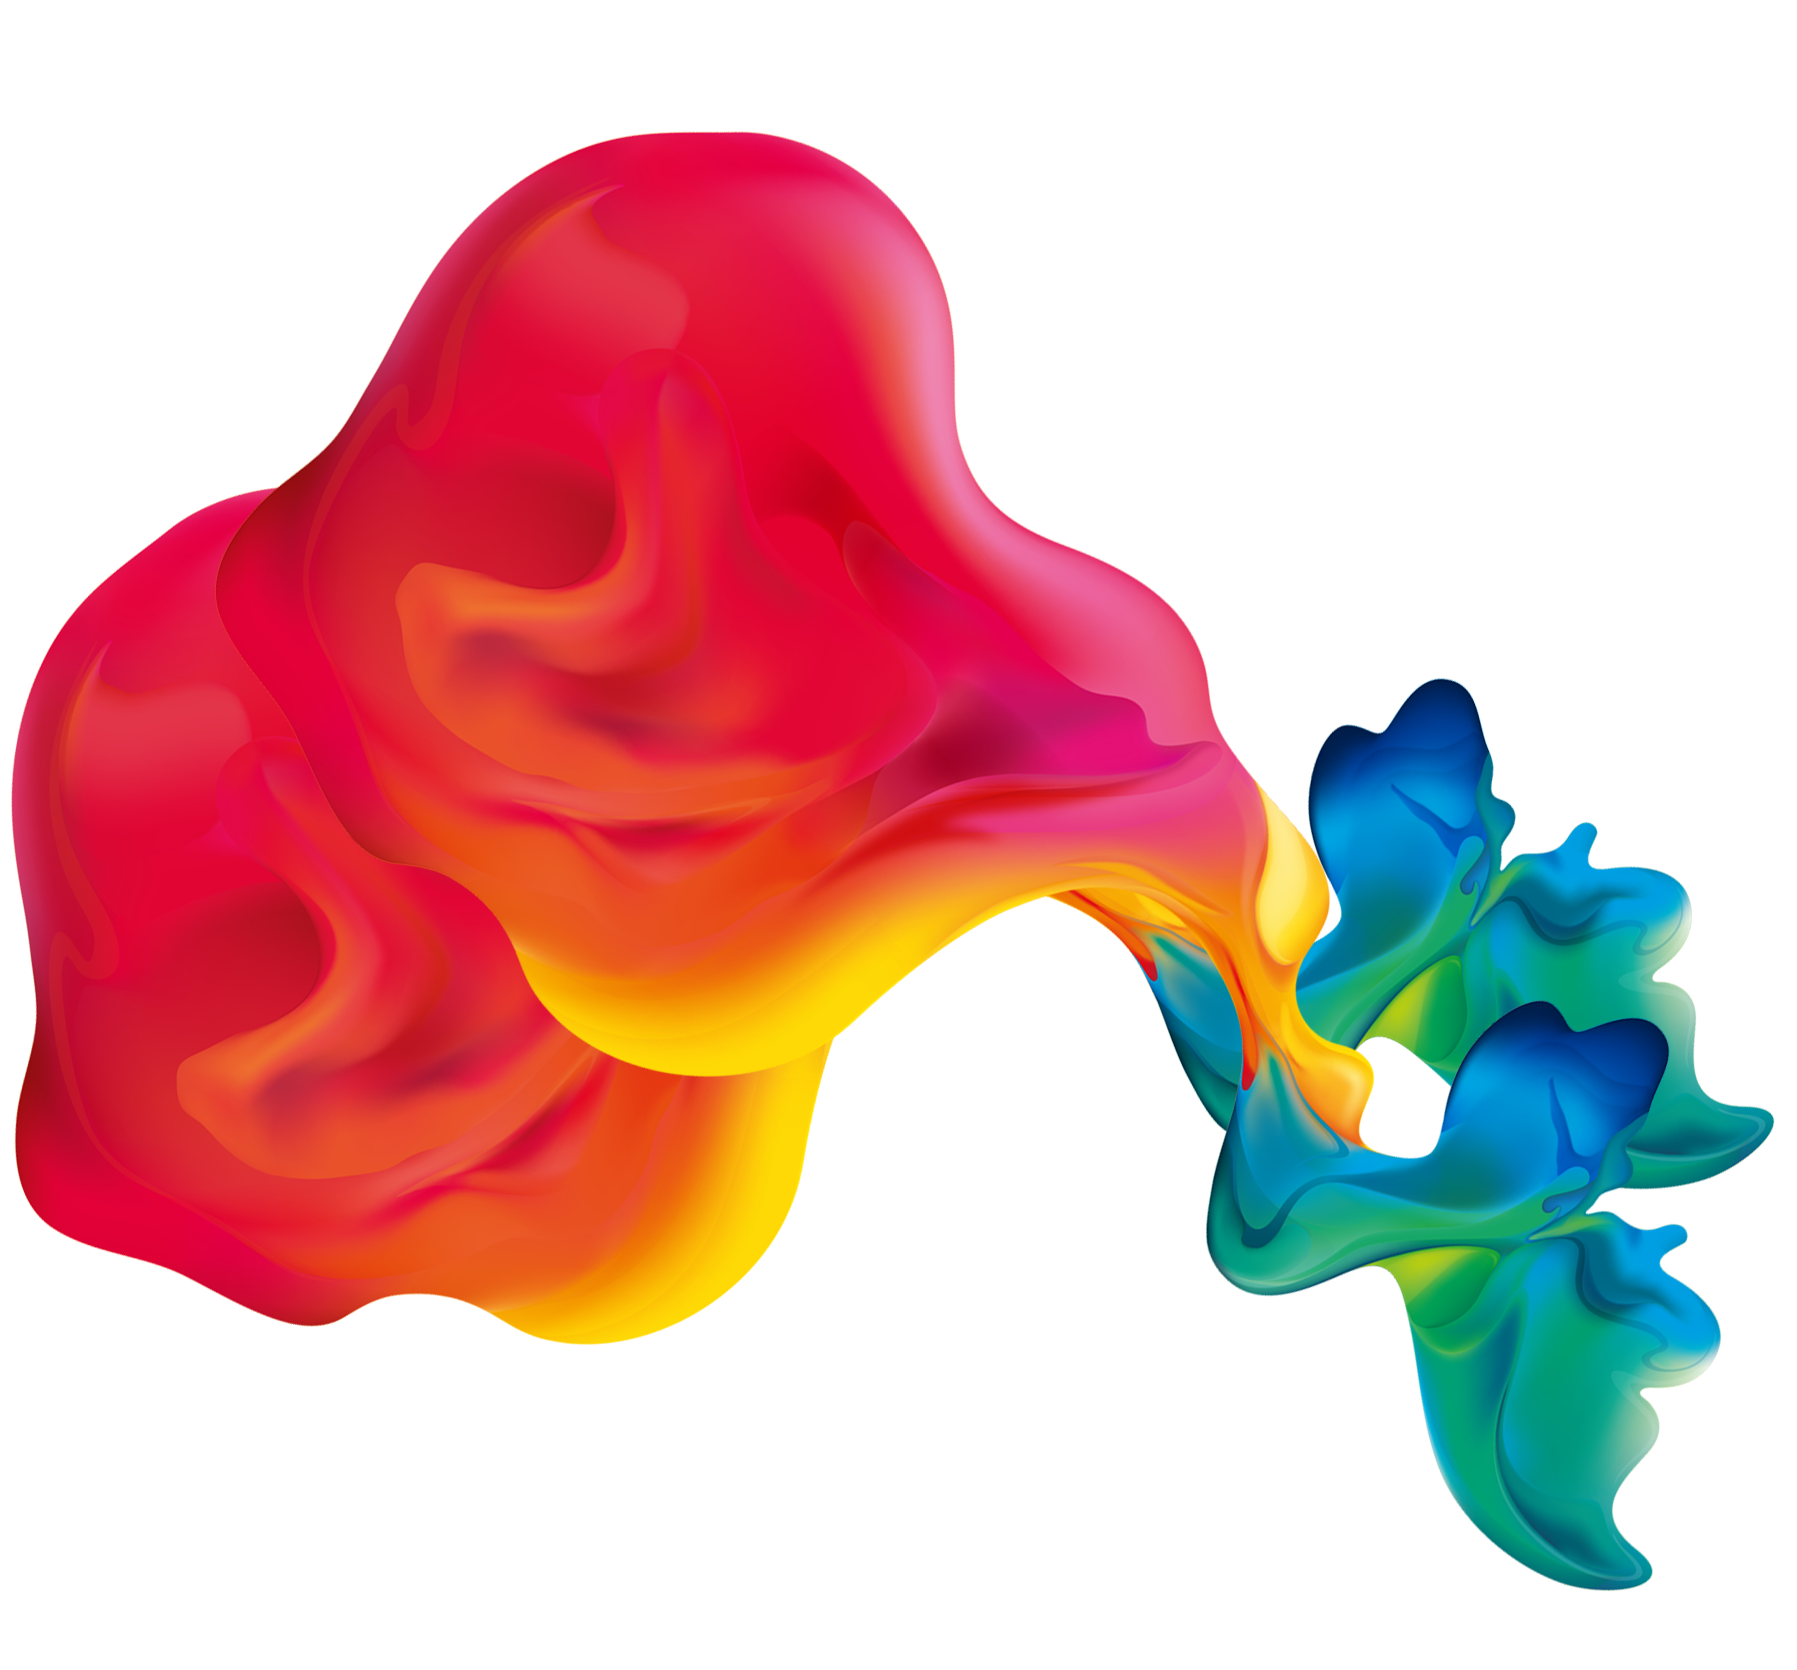
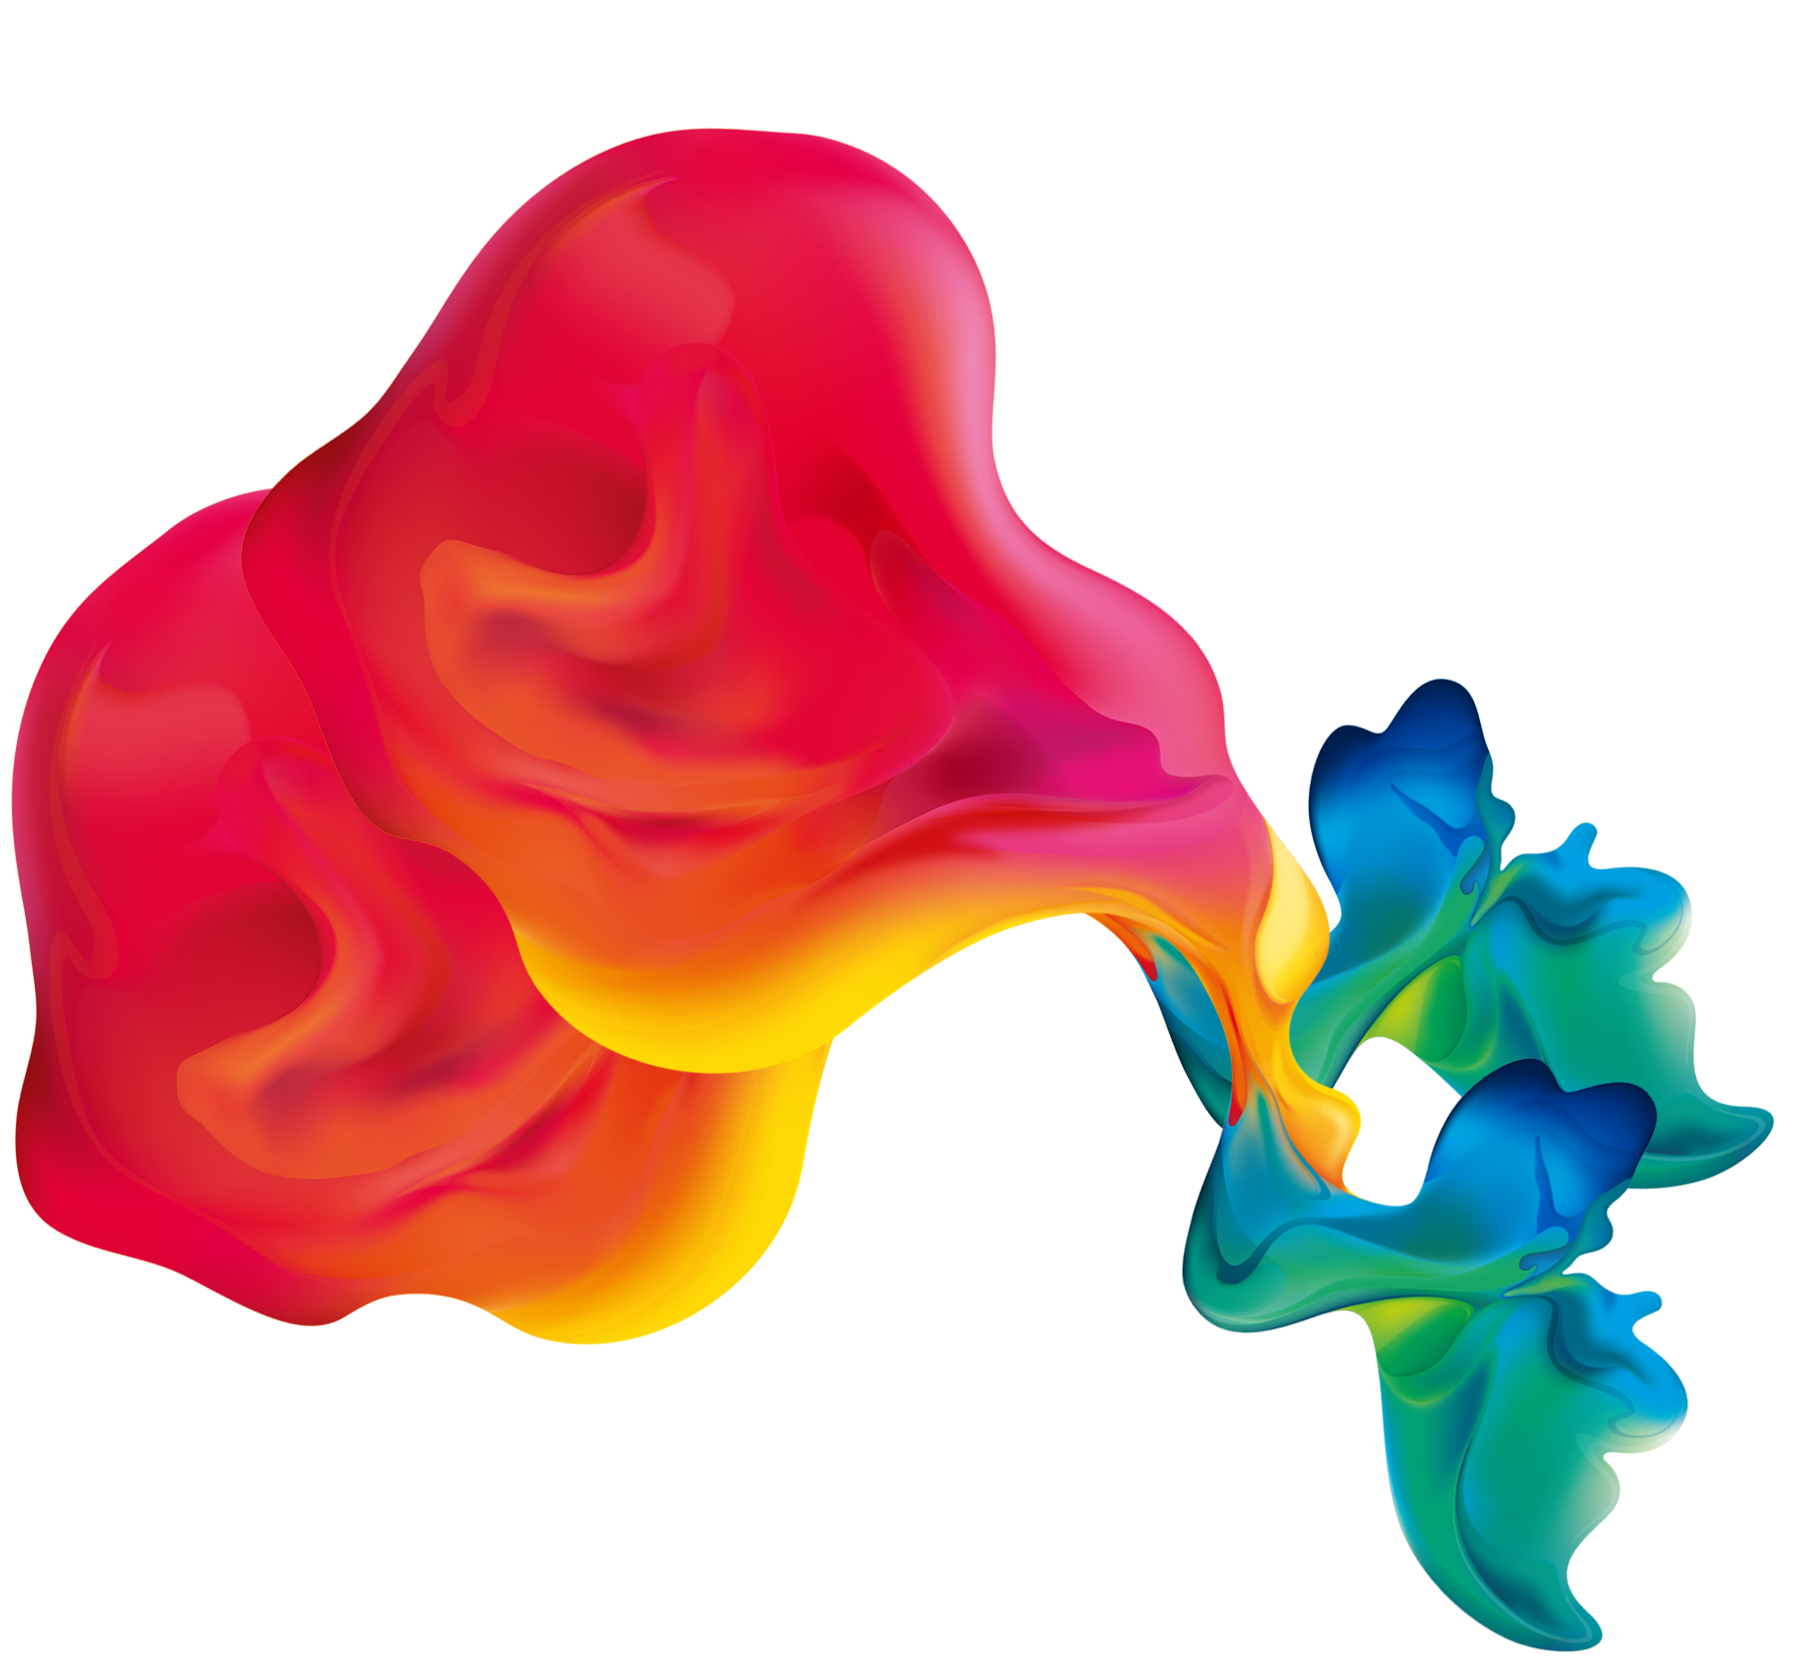
header img phase1

diff --git a/css/style.css b/css/style.css
@@ -90,7 +90,8 @@ body {
 
 .header-block {
   width: 100%;
-  height: 580px; }
+  height: 580px;
+  position: relative; }
 
 .header_img {
   background-image: url("../img/header/header_img.png");
@@ -99,8 +100,11 @@ body {
   background-repeat: no-repeat;
   width: 100%;
   height: 100%;
+  position: absolute;
   width: 100%;
-  height: 345px; }
+  height: 345px;
+  background-size: 500%;
+  background-position: 59% 58%; }
 
 .content-pre_block {
   background-image: url("../img/content/1.jpg");

diff --git a/scss/_content.scss b/scss/_content.scss
@@ -11,12 +11,16 @@
     .header-block {
         width: 100%;
         height: 580px;
+        position: relative;
     }
     
     .header_img {
-      @include bg_img("../img/header/header_img.png");
+        @include bg_img("../img/header/header_img.png");
+        position: absolute;
         width: 100%;
         height: 345px;
+            background-size: 500%;
+    background-position: 59% 58%;
         //background-color: gray;
     }
     
